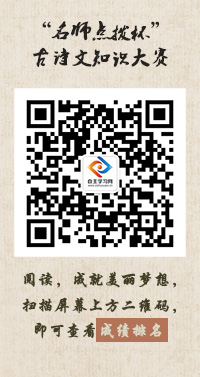
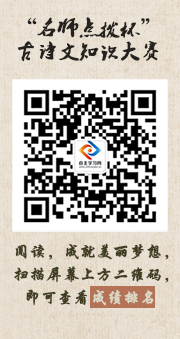
add js style

diff --git a/index.html b/index.html
@@ -79,10 +79,10 @@
 		     <h4 style="margin-bottom:2rem;"><b>参赛对象: </b>常州中小学在校学生（包括中等职业学校以及行业学校）</h4>
 			  <h4><b>比赛时间：</b><u>2016年9月20日 至  11月20日（为期两个月）</u></h4>
 		   </div>
-		   <div class="img-none-left"> <div class="disapper1" > X </div><img class="left-img" src="images/gushiwenerweima.jpg"> </div>
-		   <div class="img-none-right"><div class="disapper2"> X </div><img class="right-img" src="images/gushiwenerweima.jpg"></div>
-		  
-		</div>
+		   <div class="img-none-left"> <div class="disapper1" > <i class="fa fa-remove"></i> </div><img class="left-img" src="images/gushiwenerweima.jpg"> </div>
+		   <div class="img-none-right"><div class="disapper2"> <i class="fa fa-remove"></i> </div><img class="right-img" src="images/gushiwenerweima2.jpg"></div>
+		
+		  </div>
 		
 		
 		<div id="xingshi" title="活动形式" >
@@ -151,11 +151,9 @@
 
 
  <script src="js/jquery.js"></script>
-  <script>
-		   var $$=jQuery;
-		    $$(".disapper1").click(function(){$$(".img-none-left").remove();})
-		   $$(".disapper2").click(function(){$$(".img-none-right").remove();})
-		   </script>
+   <script src="js/0913.js">
+		 
+    </script>
     <script src="js/bootstrap.min.js"></script>
  <script src="js/stickUp.js"></script>
 			<script type="text/javascript">

diff --git a/styles/0913.css b/styles/0913.css
@@ -56,11 +56,18 @@ a{text-decoration: none;color:hsl(0,10%,10%);}
 .clearfix:after{content:'';clear:both;}
 #duixing{display:block;position:relative;}
 #duixing .people  h4{display:block;margin-bottom:2rem !important;}
-#duixiang  .left-img{max-width:95%;position:absolute;left:0%;top:73%;transition:all 2s;-webkit-transition:all 2s;display:block;z-index:1;}
-#duixiang  .right-img{position:absolute;right:0%;top:73%;transition:all 2s;-webkit-transition:all 2s;display:block;z-index:1;}
-#duixiang .disapper1{position:absolute;right:1%;top:73%;z-index:99;}
-#duixiang .disapper1{position:absolute;left:1%;top:73%;z-index:99;}
-#duixiang div[class ^= "img-none-"]{cursor:pointer;}
+
+
+#duixiang div[class ^= "img-none-"]{cursor:pointer;position:absolute;}
+.img-none-left{left:0%;top:80%;transition:all 2s;-webkit-transition:all 2s;display:block;}
+.img-none-right{right:0%;top:80%;transition:all 2s;-webkit-transition:all 2s;display:block;}
+#duixiang .disapper1{position:absolute;left:5%;}
+#duixiang .disapper2{position:absolute;right:5%;}
+div[class *="disapper"]{color:black !important;}
+#duixiang  .left-img{}
+#duixiang  .right-img{}
+
+
 #xingshi{display:block;}
 .xingshi-i{color:#990066;}
 #prize{display:block;}

diff --git a/js/0913.js b/js/0913.js
@@ -1,0 +1,17 @@
+  var $$=jQuery;
+		    $$(".disapper1").click(function(){$$(".img-none-left").remove();})
+		    $$(".disapper2").click(function(){$$(".img-none-right").remove();})
+		
+			
+			jQuery(function(){
+			function makeImg(){
+				var w=window.innerWidth|| document.documentElement.clientWidth|| document.body.clientWidth;
+				var h=window.innerHeight|| document.documentElement.clientHeight|| document.body.clientHeight;
+			    if(w < 1080){
+				$$(".img-none-left").remove();
+				$$(".img-none-right").remove();
+				}
+			}
+				jQuery(window).on("resize load",makeImg);
+			})
+		
